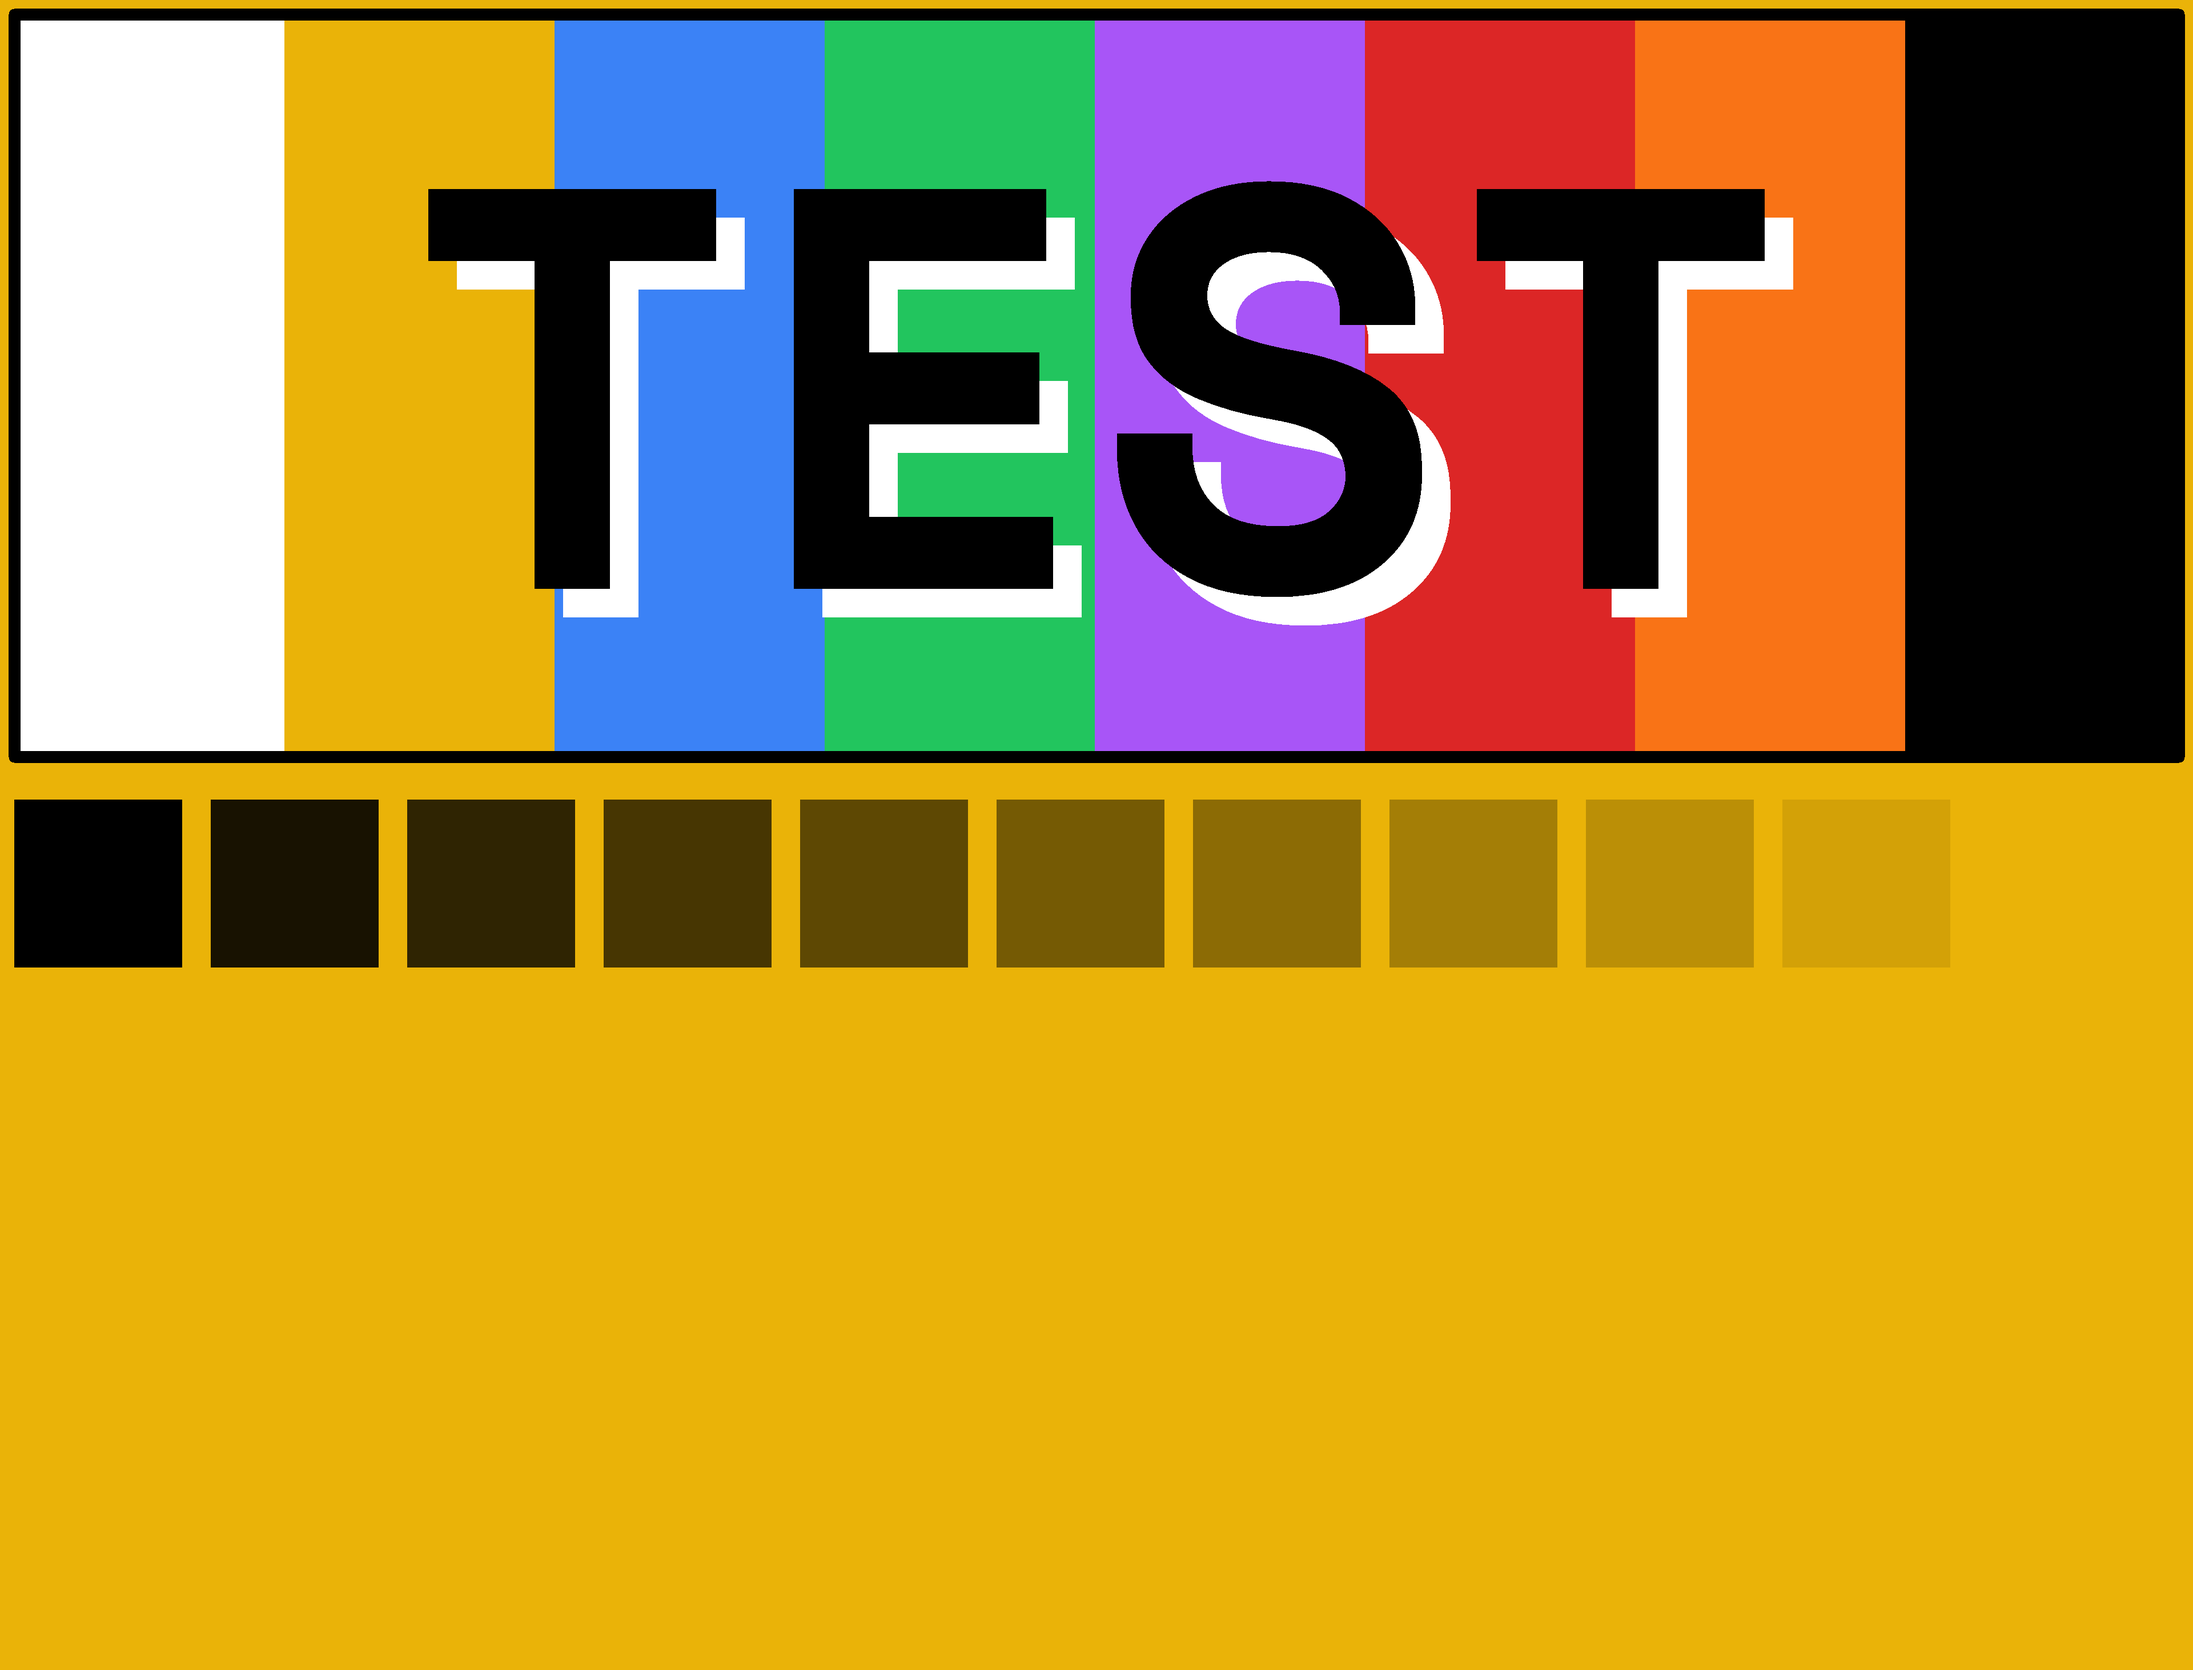
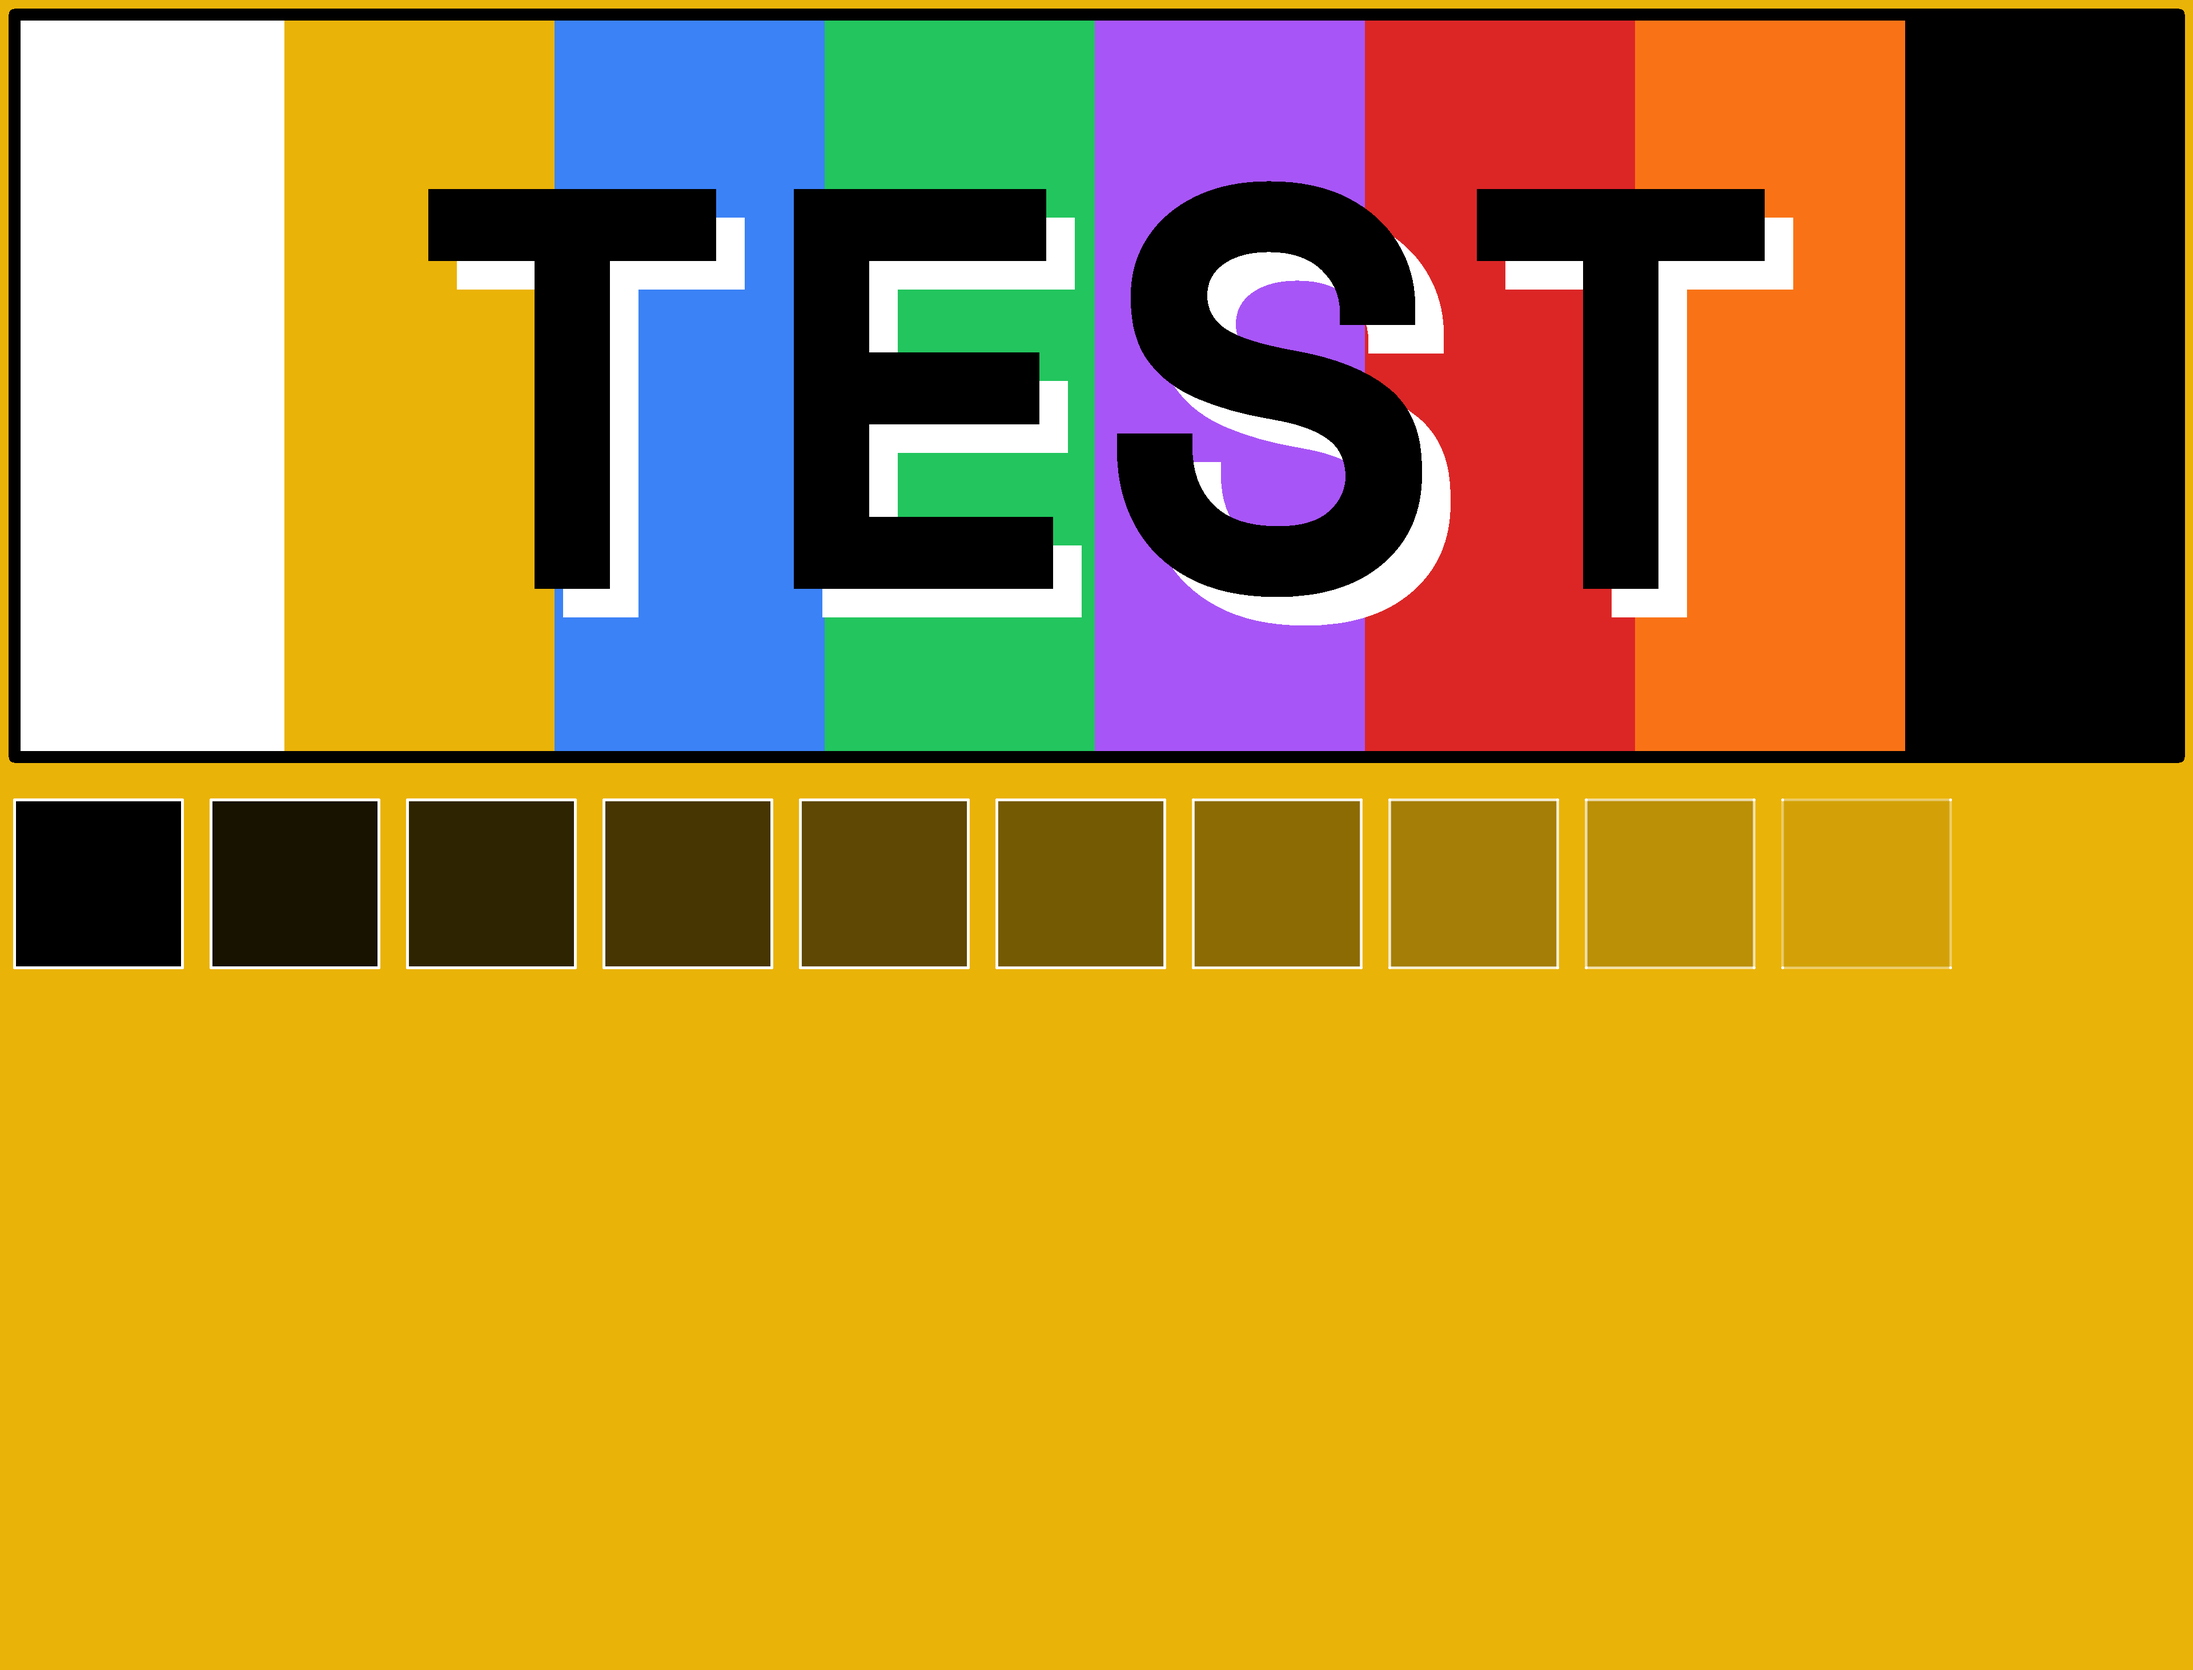
Add border radius support to rectangles (fixes #27)

diff --git a/src/graphic.rs b/src/graphic.rs
@@ -15,6 +15,7 @@ pub(crate) enum GraphicType {
     Rectangle {
         width: usize,
         height: usize,
+        border_radius: f32,
     },
     Path {
         commands: Vec<PathCommand>,
@@ -29,6 +30,7 @@ pub(crate) enum GraphicType {
 }
 
 use crate::canvas::LayerPosition;
+use crate::graphic::PathCommand::MoveTo;
 use crate::image::Image;
 use crate::text::GlyphPath;
 use crate::utils::distance_between_point_and_line;
@@ -74,24 +76,37 @@ impl GraphicType {
                     plot_pixel,
                 );
             }
-            GraphicType::Rectangle { width, height } => {
-                let (x, y) = (0, 0);
-                let edges = vec![
+            GraphicType::Rectangle {
+                width,
+                height,
+                border_radius,
+            } => {
+                let mut edges = vec![];
+                let r = *border_radius;
+                let w = *width as f32;
+                let h = *height as f32;
+                let commands = vec![
+                    MoveTo((r, 0.)),
                     // Top
-                    ((x as f32, y as f32), (x as f32 + *width as f32, y as f32)),
+                    PathCommand::LineTo((w - r, 0.)),
+                    // Top right
+                    PathCommand::QuadraticTo((w, r), (w, 0.)),
                     // Right
-                    (
-                        (x as f32 + *width as f32, y as f32),
-                        (x as f32 + *width as f32, y as f32 + *height as f32),
-                    ),
+                    PathCommand::LineTo((w, h - r)),
+                    // Bottom Right
+                    PathCommand::QuadraticTo((w - r, h), (w, h)),
                     // Bottom
-                    (
-                        (x as f32 + *width as f32, y as f32 + *height as f32),
-                        (x as f32, y as f32 + *height as f32),
-                    ),
+                    PathCommand::LineTo((r, h)),
+                    // Bottom Left
+                    PathCommand::QuadraticTo((0., h - r), (0., h)),
                     // Left
-                    ((x as f32, y as f32 + *height as f32), (x as f32, y as f32)),
+                    PathCommand::LineTo((0., r)),
+                    // Top Left
+                    PathCommand::QuadraticTo((r, 0.), (0., 0.)),
+                    PathCommand::Close,
                 ];
+                edges = path_to_edges(commands);
+
                 render_edges(
                     edges,
                     stroke_width,

diff --git a/src/bin/test1.rs b/src/bin/test1.rs
@@ -3,7 +3,7 @@ use images_editor::{canvas::Canvas, colors::Colors};
 fn main() {
     let mut canvas = Canvas::new(3840, 2924);
 
-    canvas.add_rectangle(3840, 2924, 0, None, Colors::yellow());
+    canvas.add_rectangle(3840, 2924, 0, None, Colors::yellow(), 0f32);
 
     for (i, fill_color) in [
         Colors::white(),
@@ -20,12 +20,12 @@ fn main() {
     {
         let width = (3840 - 50) / 8;
         let padding = width * i + 25;
-        let rect = canvas.add_rectangle(width, 1300, 0, None, *fill_color);
+        let rect = canvas.add_rectangle(width, 1300, 0, None, *fill_color, 0f32);
         canvas.get_mut_layer(rect).move_to_point_y(25);
         canvas.get_mut_layer(rect).move_to_point_x(padding as i32);
     }
 
-    let rectangle1 = canvas.add_rectangle(3840 - 50, 1300, 20, Colors::black(), None);
+    let rectangle1 = canvas.add_rectangle(3840 - 50, 1300, 20, Colors::black(), None, 0f32);
     let layer = canvas.get_mut_layer(rectangle1);
     layer.move_to_point_y(25);
     layer.center_layer_x();
@@ -45,7 +45,14 @@ fn main() {
         let side = (3840 - 50 - 11 * 50) / 11;
         let padding_y = 1400;
         let padding_x = 25 + (side + 50) * i as i32;
-        let rect = canvas.add_rectangle(side as usize, side as usize, 0, None, Colors::black());
+        let rect = canvas.add_rectangle(
+            side as usize,
+            side as usize,
+            5,
+            Colors::white(),
+            Colors::black(),
+            0f32,
+        );
         canvas.get_mut_layer(rect).move_to_point_y(padding_y);
         canvas.get_mut_layer(rect).move_to_point_x(padding_x);
         canvas

diff --git a/src/canvas/shapes.rs b/src/canvas/shapes.rs
@@ -31,11 +31,16 @@ impl Canvas {
         stroke_width: usize,
         stroke_color: impl Into<Option<u32>>,
         fill_color: impl Into<Option<u32>>,
+        border_radius: f32,
     ) -> usize {
         let stroke_color = stroke_color.into();
         let fill_color = fill_color.into();
         let element = Element::Graphic(Graphic {
-            graphic_type: GraphicType::Rectangle { width, height },
+            graphic_type: GraphicType::Rectangle {
+                width,
+                height,
+                border_radius: border_radius.into(),
+            },
             stroke_width,
             stroke_color,
             fill_color,

diff --git a/src/bin/main.rs b/src/bin/main.rs
@@ -4,7 +4,7 @@ use images_editor::{Resolution, canvas::Canvas, colors::Colors};
 fn main() -> () {
     let mut canvas = Canvas::new(4000, 4000);
 
-    let rect = canvas.add_rectangle(400, 400, 0, None, Colors::red());
+    let rect = canvas.add_rectangle(400, 400, 0, None, Colors::red(), 0f32);
     canvas.export_to_png("output16", true);
 
     return ();
